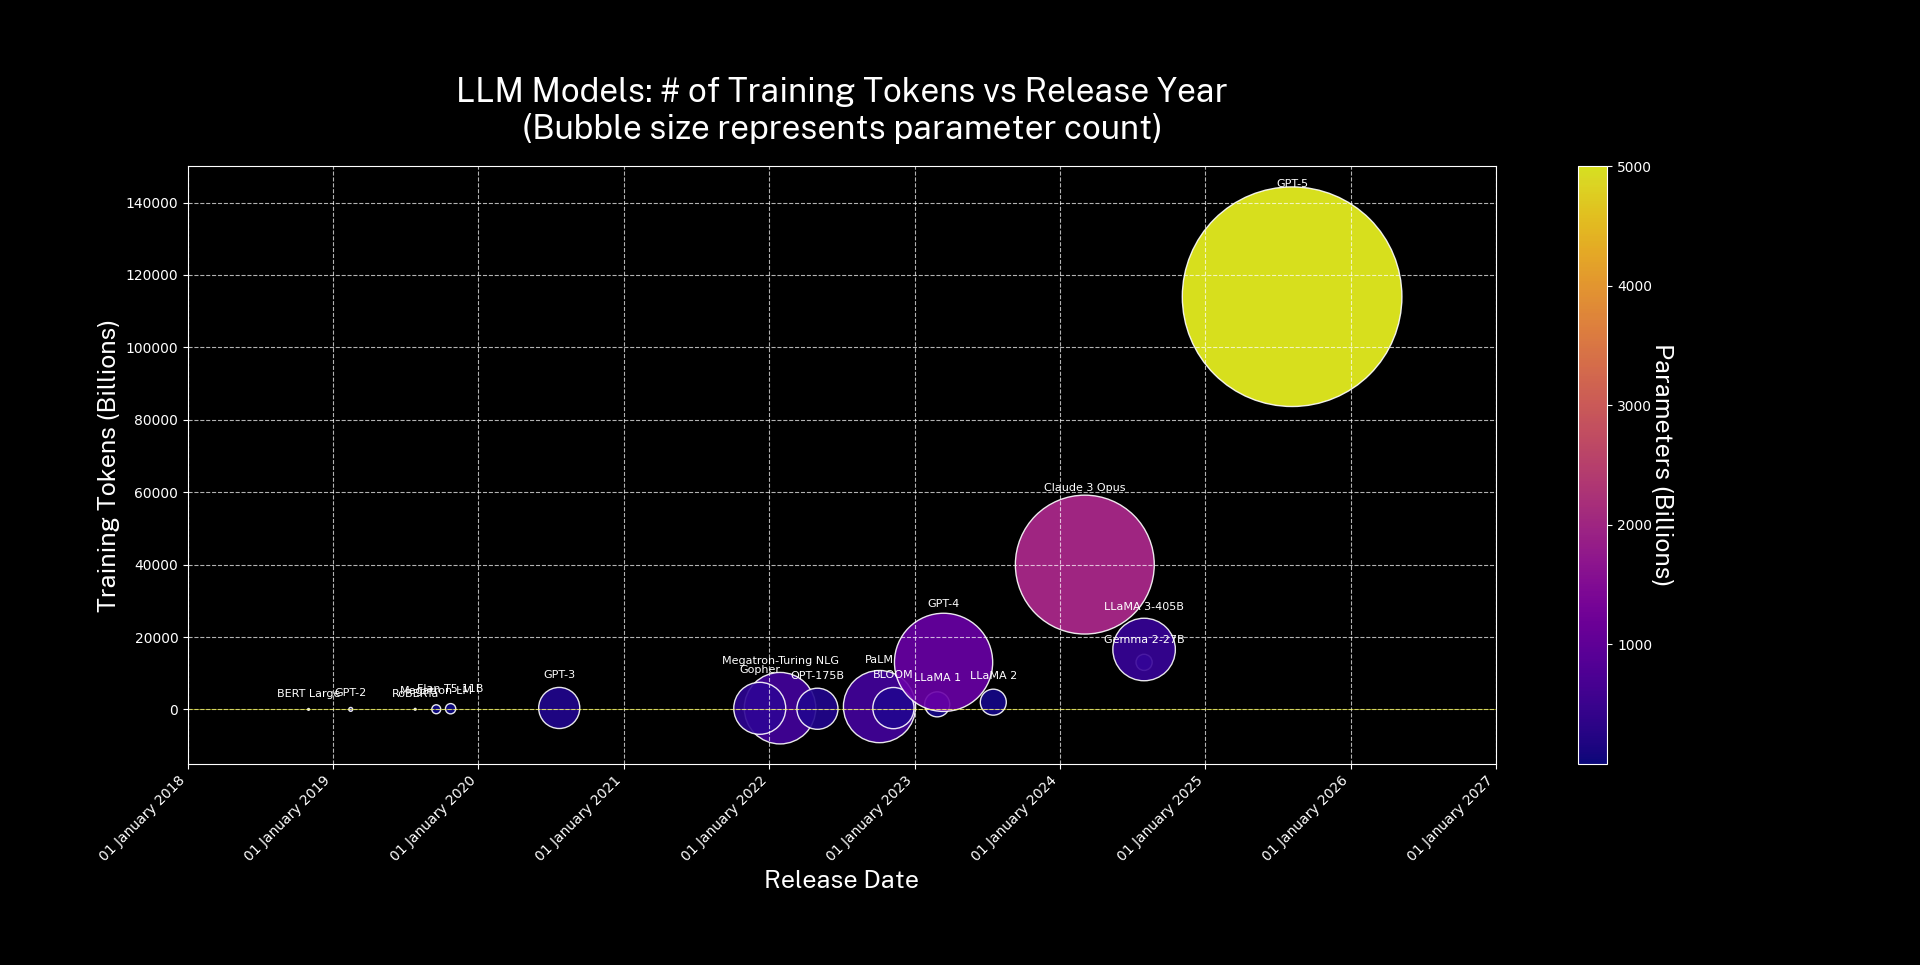
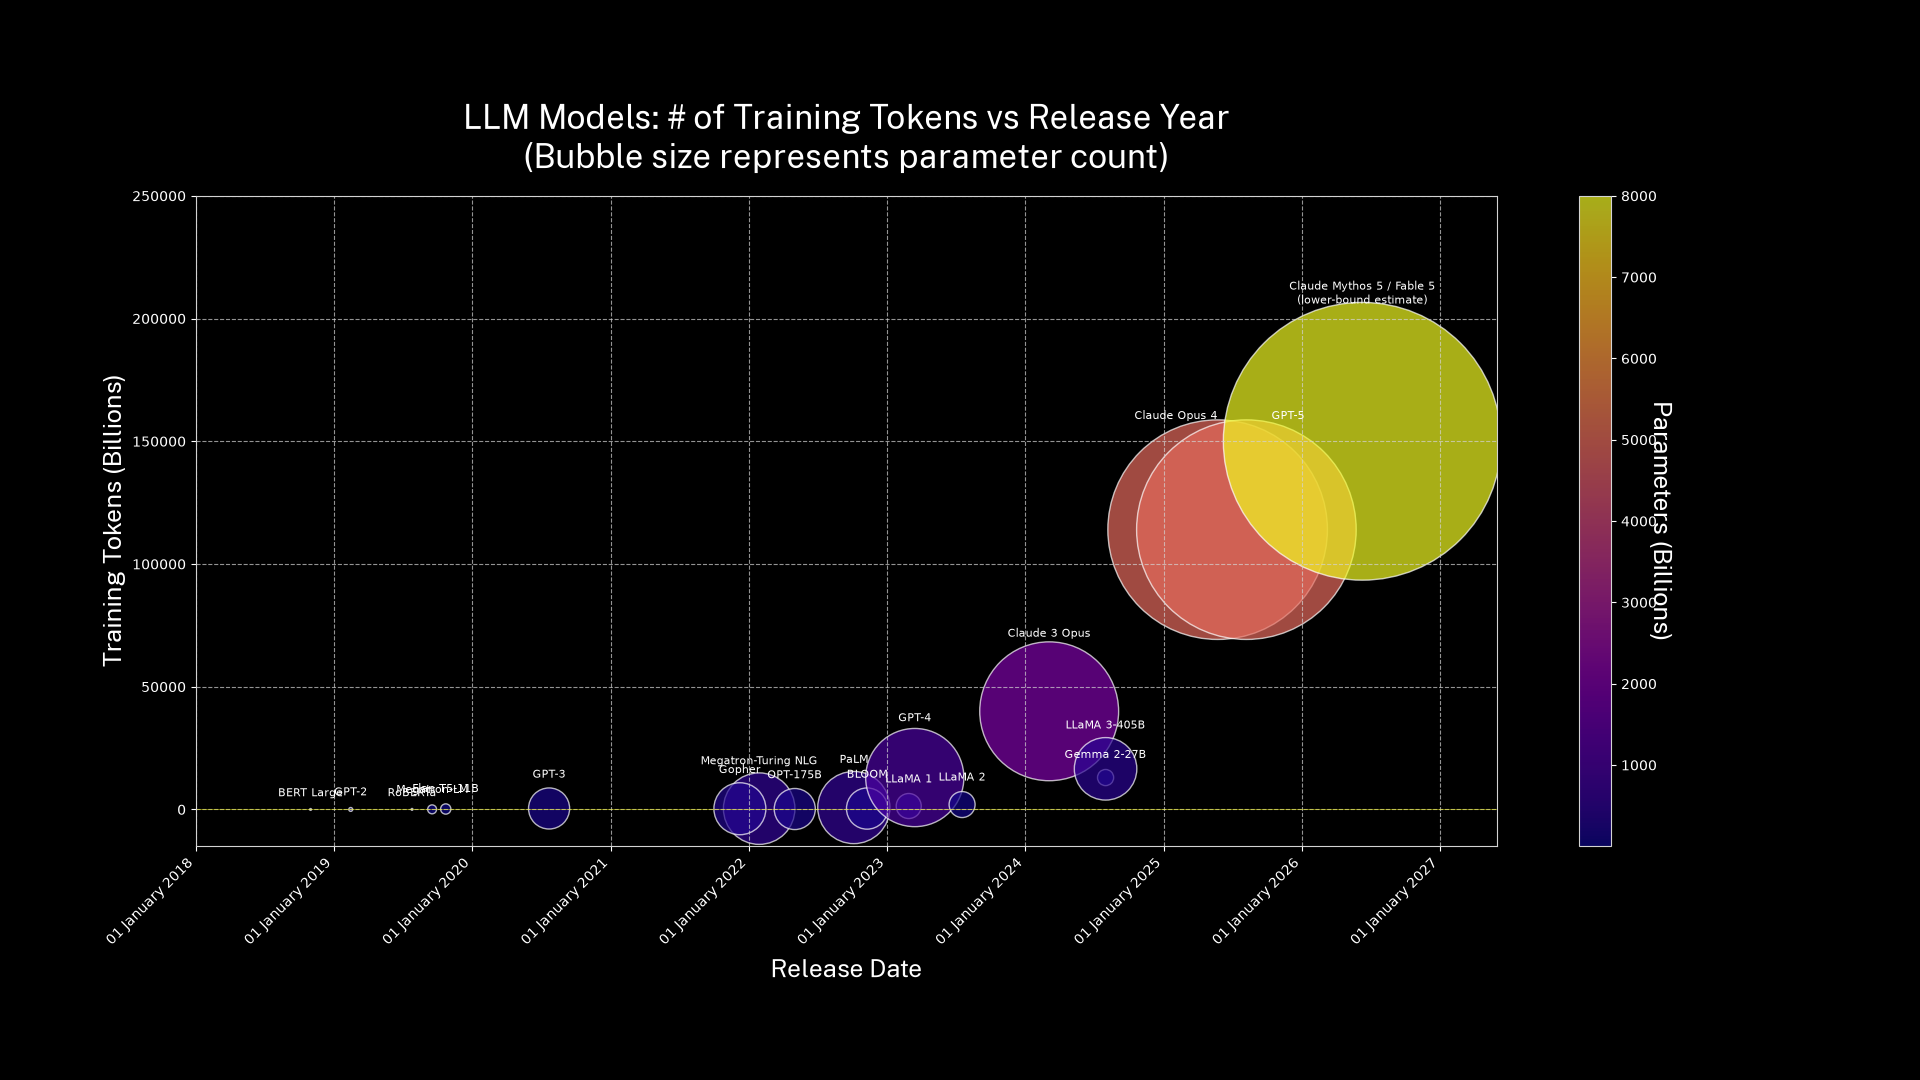
Add Claude Mythos 5 / Fable 5 and a light-theme chart
- Add Claude Mythos 5 / Fable 5 at 150T tokens as a lower-bound estimate
  (bottom of @scaling01's 150T-312T estimate; ~8T params per FT estimate)
- Fix missing comma on the Claude Opus 4 row
- Render dark (training-tokens.png) and light (training-tokens-light.png)
  versions from a shared THEMES config
- Extend axes to fit the new point, set bubble opacity to 0.7, and offset
  the overlapping Claude Opus 4 / GPT-5 labels

diff --git a/visualisation.py b/visualisation.py
@@ -3,20 +3,47 @@ import numpy as np
 import matplotlib.dates as mdates
 from datetime import datetime
 
-plt.rcParams.update({
-    "lines.color": "white",
-    "patch.edgecolor": "white",
-    "text.color": "white",
-    "axes.facecolor": "black",
-    "axes.edgecolor": "lightgray",
-    "axes.labelcolor": "white",
-    "xtick.color": "white",
-    "ytick.color": "white",
-    "grid.color": "lightgray",
-    "figure.facecolor": "black",
-    "figure.edgecolor": "black",
-    "savefig.facecolor": "black",
-    "savefig.edgecolor": "black"})
+# Colour themes: each chart is rendered once per theme
+THEMES = {
+    'dark': {
+        'rc': {
+            "lines.color": "white",
+            "patch.edgecolor": "white",
+            "text.color": "white",
+            "axes.facecolor": "black",
+            "axes.edgecolor": "lightgray",
+            "axes.labelcolor": "white",
+            "xtick.color": "white",
+            "ytick.color": "white",
+            "grid.color": "lightgray",
+            "figure.facecolor": "black",
+            "figure.edgecolor": "black",
+            "savefig.facecolor": "black",
+            "savefig.edgecolor": "black"},
+        'bubble_edge': 'white',
+        'zero_line': 'yellow',
+        'filename': 'training-tokens.png',
+    },
+    'light': {
+        'rc': {
+            "lines.color": "black",
+            "patch.edgecolor": "black",
+            "text.color": "black",
+            "axes.facecolor": "white",
+            "axes.edgecolor": "dimgray",
+            "axes.labelcolor": "black",
+            "xtick.color": "black",
+            "ytick.color": "black",
+            "grid.color": "darkgray",
+            "figure.facecolor": "white",
+            "figure.edgecolor": "white",
+            "savefig.facecolor": "white",
+            "savefig.edgecolor": "white"},
+        'bubble_edge': 'dimgray',
+        'zero_line': 'darkorange',
+        'filename': 'training-tokens-light.png',
+    },
+}
 
 # date, billions of tokens, billions of parameters
 # Define the data (excluding models with N/A values)
@@ -38,7 +65,17 @@ models = {
     'Claude 3 Opus' : ('4 March 2024', 40000, 2000, '', 'https://www.anthropic.com/news/claude-3-family', 'Anthropic'),
     'Gemma 2-27B' : ('31 July 2024',13000,27, 'https://arxiv.org/abs/2408.00118', 'https://ai.google.dev/gemma/docs/core/model_card_2', 'Google AI'),
     'LLaMA 3-405B' : ('31 July 2024', 16550, 405, 'https://arxiv.org/abs/2407.21783', 'https://ai.meta.com/blog/meta-llama-3/', 'Meta AI'),
-    'GPT-5' : ('7 August 2025', 114000, 5000, 'https://lifearchitect.ai/gpt-5/', 'https://openai.com/index/introducing-gpt-5/', 'OpenAI')
+    'Claude Opus 4' : ('23 May 2025', 114000, 5000, 'https://lifearchitect.ai/gpt-5/', 'https://www.anthropic.com/news/claude-4', 'Anthropic'),
+    'GPT-5' : ('7 August 2025', 114000, 5000, 'https://lifearchitect.ai/gpt-5/', 'https://openai.com/index/introducing-gpt-5/', 'OpenAI'),
+    # Lower-bound estimate: Anthropic has not disclosed training tokens. 150T is the bottom of
+    # @scaling01's 150T-312T estimate (median 212T). ~8T params is an industry estimate reported by the FT.
+    'Claude Mythos 5 / Fable 5\n(lower-bound estimate)' : ('9 June 2026', 150000, 8000, 'https://x.com/scaling01/status/2061989029025853757', 'https://www.anthropic.com/news/claude-fable-5-mythos-5', 'Anthropic')
+}
+
+# Horizontal label offsets (points) for models whose labels would otherwise overlap
+label_x_offsets = {
+    'Claude Opus 4': -30,
+    'GPT-5': 30,
 }
 
 # Extract data and convert dates to datetime objects
@@ -62,63 +99,71 @@ for model, data in models.items():
     organisations.append(data[5])
     names.append(model)
 
-# Create the scatter plot
-plt.figure(figsize=(19.2, 10.8))
-plt.style.use('dark_background')
+def plot(theme):
+    plt.rcParams.update(plt.rcParamsDefault)
+    plt.rcParams.update(theme['rc'])
 
-# Scale the sizes to be visible but not overwhelming
-sizes = [p * 5 for p in params]  # Multiply by 5 to make sizes more visible
+    # Create the scatter plot
+    plt.figure(figsize=(19.2, 10.8))
 
-# Create scatter plot with datetime objects
-scatter = plt.scatter(dates, tokens, s=sizes, alpha=0.9, c=params, 
-                     cmap='plasma', edgecolor='white', linewidth=1)
+    # Scale the sizes to be visible but not overwhelming
+    sizes = [p * 5 for p in params]  # Multiply by 5 to make sizes more visible
 
-# Add labels for each point with line break between name and organization
-# Position labels based on parameter count - higher for larger bubbles
-for i, name in enumerate(names):
-    # Create label with line break
-    label = f"{name}"
+    # Create scatter plot with datetime objects
+    scatter = plt.scatter(dates, tokens, s=sizes, alpha=0.7, c=params, 
+                         cmap='plasma', edgecolor=theme['bubble_edge'], linewidth=1)
+
+    # Add labels for each point with line break between name and organization
+    # Position labels based on parameter count - higher for larger bubbles
+    for i, name in enumerate(names):
+        # Create label with line break
+        label = f"{name}"
     
-    # Calculate vertical offset based on parameter count
-    # Base offset of 10 pixels plus additional offset scaled by parameter count
-    # Taking the square root to avoid extreme offsets for very large parameter values
-    vertical_offset = 7 + np.sqrt(params[i]) * 1.0
+        # Calculate vertical offset based on parameter count
+        # Base offset of 10 pixels plus additional offset scaled by parameter count
+        # Taking the square root to avoid extreme offsets for very large parameter values
+        vertical_offset = 7 + np.sqrt(params[i]) * 1.0
     
-    # Add annotation with dynamic vertical positioning
-    plt.annotate(label, (dates[i], tokens[i]), 
-                xytext=(0, vertical_offset),  # 0 x offset (centered), dynamic y offset
-                textcoords='offset points',
-                fontsize=8,
-                ha='center',  # Horizontal alignment: center
-                va='bottom')  # Vertical alignment: bottom
+        # Add annotation with dynamic vertical positioning
+        plt.annotate(label, (dates[i], tokens[i]), 
+                    xytext=(label_x_offsets.get(name, 0), vertical_offset),  # x offset (default centred), dynamic y offset
+                    textcoords='offset points',
+                    fontsize=8,
+                    ha='center',  # Horizontal alignment: center
+                    va='bottom')  # Vertical alignment: bottom
 
-# Customize the plot
-plt.title('LLM Models: # of Training Tokens vs Release Year\n(Bubble size represents parameter count)',
-          fontsize=24, pad=20, fontfamily='Public Sans')
-plt.xlabel('Release Date', fontfamily='Public Sans', size=18)
-plt.ylabel('Training Tokens (Billions)', fontfamily='Public Sans', size=18)
+    # Customize the plot
+    plt.title('LLM Models: # of Training Tokens vs Release Year\n(Bubble size represents parameter count)',
+              fontsize=24, pad=20, fontfamily='Public Sans')
+    plt.xlabel('Release Date', fontfamily='Public Sans', size=18)
+    plt.ylabel('Training Tokens (Billions)', fontfamily='Public Sans', size=18)
 
-# Format the x-axis to use the desired date format
-plt.gca().xaxis.set_major_formatter(mdates.DateFormatter('%d %B %Y'))
+    # Format the x-axis to use the desired date format
+    plt.gca().xaxis.set_major_formatter(mdates.DateFormatter('%d %B %Y'))
 
-# Set the x-axis to display nicely spaced dates
-plt.gca().xaxis.set_major_locator(mdates.YearLocator())
-plt.gcf().autofmt_xdate(rotation=45)  # Rotate date labels for better readability
+    # Set the x-axis to display nicely spaced dates
+    plt.gca().xaxis.set_major_locator(mdates.YearLocator())
+    plt.gcf().autofmt_xdate(rotation=45)  # Rotate date labels for better readability
 
-# Add a colorbar to show parameter scale
-cbar = plt.colorbar(scatter)
-cbar.set_label('Parameters (Billions)', rotation=270, labelpad=15, fontfamily='Public Sans', size=18)
+    # Add a colorbar to show parameter scale
+    cbar = plt.colorbar(scatter)
+    cbar.set_label('Parameters (Billions)', rotation=270, labelpad=15, fontfamily='Public Sans', size=18)
 
-# Adjust axes
-plt.grid(True, linestyle='--', alpha=0.7)
-plt.axhline(y=0, color='yellow', linestyle='-', linewidth=0.5, alpha=0.6)
+    # Adjust axes
+    plt.grid(True, linestyle='--', alpha=0.7)
+    plt.axhline(y=0, color=theme['zero_line'], linestyle='-', linewidth=0.5, alpha=0.6)
 
-# Axis limits 
-ax = plt.gca()
-ax.set_xlim([datetime(2018, 1, 1), datetime(2027, 1, 1)])
-ax.set_ylim([-15000, 150000])       # Instead of [-10000, 200000]      
+    # Axis limits 
+    ax = plt.gca()
+    ax.set_xlim([datetime(2018, 1, 1), datetime(2027, 6, 1)])
+    ax.set_ylim([-15000, 250000])
 
-# Adjust layout to prevent label cutoff
-plt.tight_layout(pad=7)
-plt.savefig('training-tokens.png')
+
+    # Adjust layout to prevent label cutoff
+    plt.tight_layout(pad=7)
+    plt.savefig(theme['filename'])
+
+
+for theme in THEMES.values():
+    plot(theme)
 plt.show()
